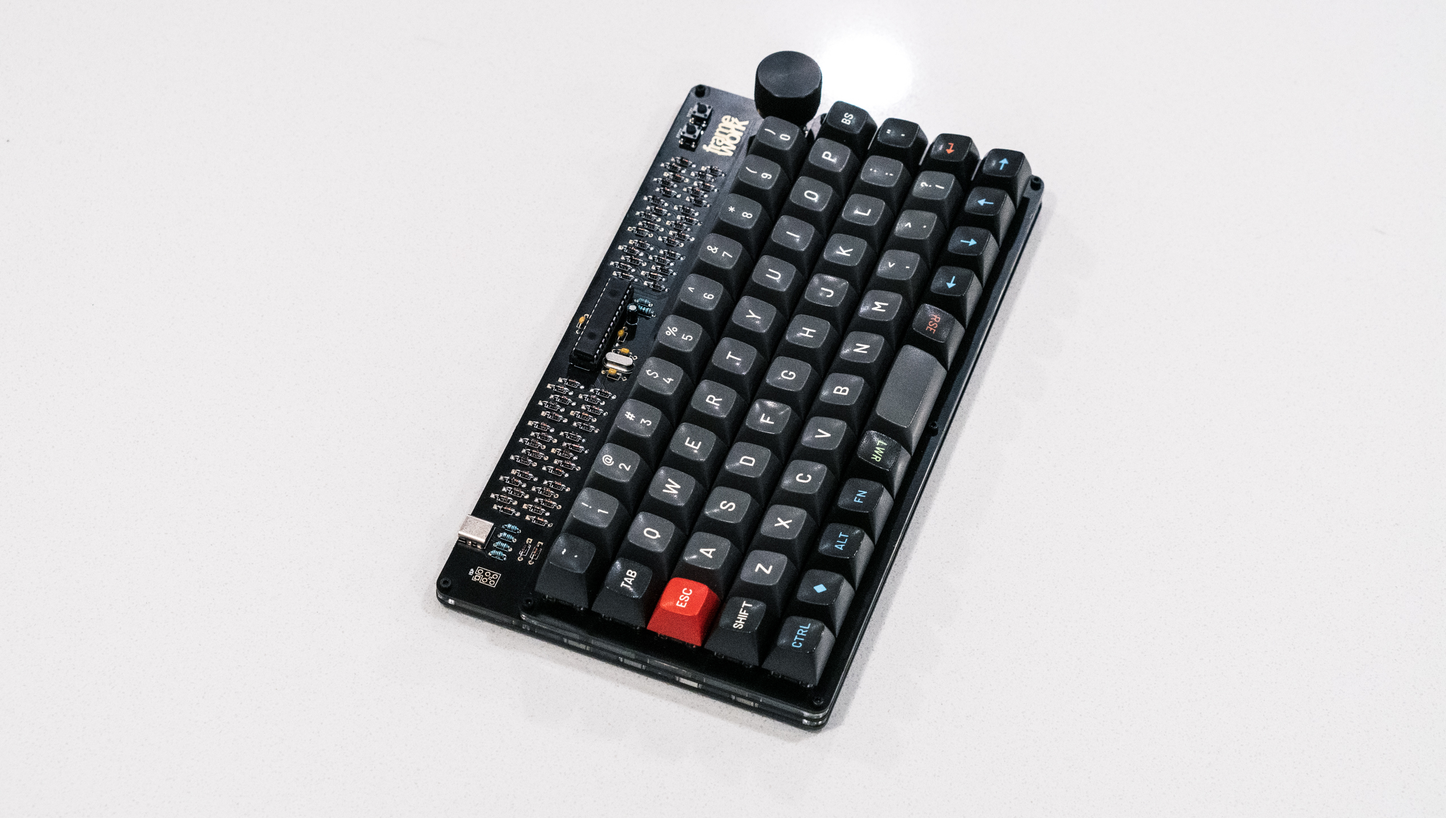
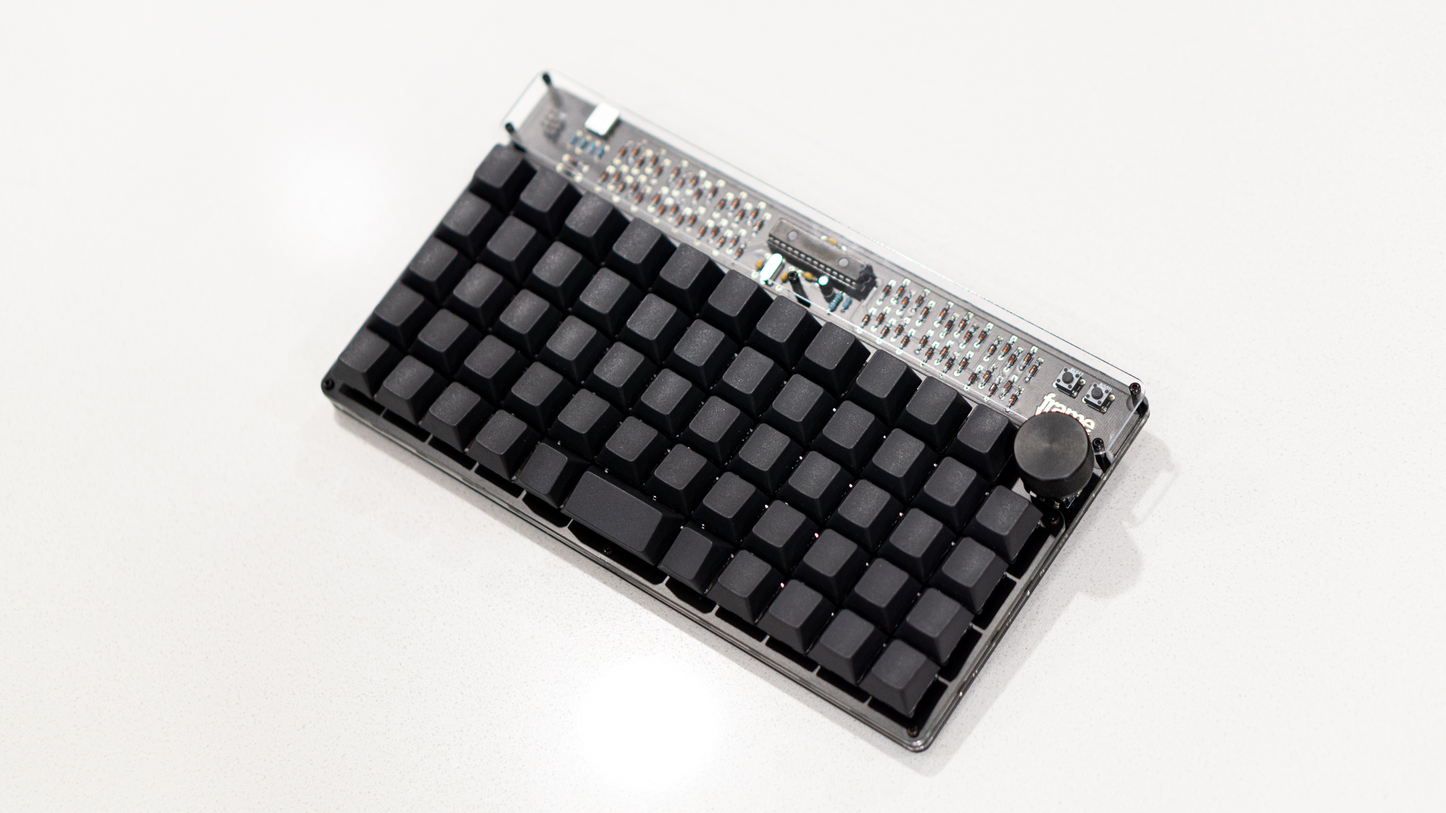
update images

Changed region(s): [[0.2188, 0.0625, 0.8125, 0.9688]]

diff --git a/images/readme.md b/images/readme.md
@@ -3,4 +3,12 @@
 ![](3.jpg)
 ![](4.jpg)
 ![](5.jpg)
+![](6.jpg)
+![](7.jpg)
+![](8.jpg)
+![](9.jpg)
+![](10.jpg)
+![](11.jpg)
+![](12.jpg)
+![](13.jpg)
 ![](top.svg)

diff --git a/readme.md b/readme.md
@@ -1,5 +1,5 @@
 # 7c8 Framework
-![](images/1.jpg)
+![](images/5.jpg)
 
 Framework is a 5x12 ortholinear keyboard featuring:
 
